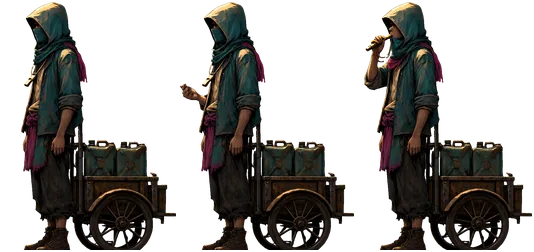
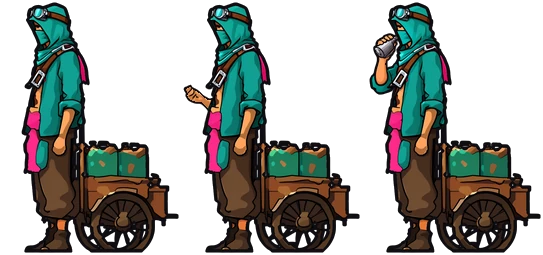
Signal Tower encounters and the Cell guard in the FAL-792 look (FAL-951)
Rollout batch 2 of 5: st-coffee-cart, st-hush-water, st-live-wires,
st-mast-climber, st-numbers-station, st-permit-booth and cell/guard,
every frame. Idles redrawn in the approved ink-and-cel look; talk/bust
redraw only the moving arm on top of the new idle. Frame ids and anims
unchanged; x/w/h/ox/oy re-measured. README updated.

diff --git a/assets/journey/README.md b/assets/journey/README.md
@@ -117,13 +117,13 @@ move. Their dialogue portraits are in `assets/portraits/` (see its README).
 | `cast/noma.webp` + `noma.json` | idle 74×220, talk 74×220 | idle [idle] (1), talk [idle, talk] (4, loop) | feet point | 14,582 |
 | `encounters/cell/backdrop.webp` | opaque 864×256 | static | strip origin (0, 0) | 25,926 |
 | `encounters/cell/bars.webp` + `.json` | shut 864×256, loose 864×256, open 864×256 | shut/loose/open, one frame each (1, once) | feet point | 360,974 |
-| `encounters/cell/guard.webp` + `.json` | idle 106×248, talk 106×248 | idle [idle] (1), talk [idle, talk] (4, loop) | feet point | 15,540 |
-| `encounters/st-coffee-cart.webp` + `.json` | idle 203×248, talk 203×248 | idle [idle] (1), talk [idle, talk] (4, loop) | feet point | 24,468 |
-| `encounters/st-hush-water.webp` + `.json` | idle 174×248, talk 174×248, bust 174×248 | idle [idle] (1), talk [idle, talk] (4, loop), bust [bust] (1, once) | feet point | 30,292 |
-| `encounters/st-live-wires.webp` + `.json` | idle 316×248, talk 316×248, bust 316×248 | idle [idle] (1), talk [idle, talk] (4, loop), bust [bust] (1, once) | feet point | 47,693 |
-| `encounters/st-mast-climber.webp` + `.json` | idle 144×248, talk 144×248 | idle [idle] (1), talk [idle, talk] (4, loop) | feet point | 27,899 |
-| `encounters/st-numbers-station.webp` + `.json` | idle 199×248, talk 199×248 | idle [idle] (1), talk [idle, talk] (4, loop) | feet point | 22,476 |
-| `encounters/st-permit-booth.webp` + `.json` | idle 173×248, talk 173×248, bust 173×248 | idle [idle] (1), talk [idle, talk] (4, loop), bust [bust] (1, once) | feet point | 25,456 |
+| `encounters/cell/guard.webp` + `.json` | idle 110×252, talk 110×252 | idle [idle] (1), talk [idle, talk] (4, loop) | feet point | 13,000 |
+| `encounters/st-coffee-cart.webp` + `.json` | idle 207×254, talk 207×254 | idle [idle] (1), talk [idle, talk] (4, loop) | feet point | 29,186 |
+| `encounters/st-hush-water.webp` + `.json` | idle 177×251, talk 177×251, bust 177×251 | idle [idle] (1), talk [idle, talk] (4, loop), bust [bust] (1, once) | feet point | 31,160 |
+| `encounters/st-live-wires.webp` + `.json` | idle 272×252, talk 272×252, bust 272×252 | idle [idle] (1), talk [idle, talk] (4, loop), bust [bust] (1, once) | feet point | 51,480 |
+| `encounters/st-mast-climber.webp` + `.json` | idle 146×251, talk 146×251 | idle [idle] (1), talk [idle, talk] (4, loop) | feet point | 19,870 |
+| `encounters/st-numbers-station.webp` + `.json` | idle 194×251, talk 194×251 | idle [idle] (1), talk [idle, talk] (4, loop) | feet point | 24,890 |
+| `encounters/st-permit-booth.webp` + `.json` | idle 177×251, talk 177×251, bust 177×251 | idle [idle] (1), talk [idle, talk] (4, loop), bust [bust] (1, once) | feet point | 28,240 |
 | `enemies/d1-scavenger.webp` + `d1-scavenger.json` | idle 143×230, step-a 161×225, step-b 144×229, step-c 155×228, attack 212×229, hurt 126×222, defeated 161×223 | idle [idle] (1), walk [step-a, step-b, step-c, idle] (8), attack [attack] (1, once), hurt [hurt] (1, once), defeated [defeated] (1, once) | feet point | 113,653 |
 | `enemies/d2-raider.webp` + `d2-raider.json` | idle 130×244, step-a 141×241, step-b 131×245, step-c 131×242, attack 276×251, hurt 151×221, defeated 228×182 | idle [idle] (1), walk [step-a, step-b, step-c, idle] (8), attack [attack] (1, once), hurt [hurt] (1, once), defeated [defeated] (1, once) | feet point | 105,533 |
 | `enemies/d3-enforcer.webp` + `d3-enforcer.json` | idle 174×240, step-a 180×238, step-b 174×239, step-c 176×239, attack 178×273, hurt 221×229, s2 174×239, s2-attack 166×223, defeated 198×210 | idle [idle] (1), walk [step-a, step-b, step-c, idle] (8), attack [attack] (1, once), hurt [hurt] (1, once), defeated [defeated] (1, once), s2-idle [s2] (1), s2-attack [s2-attack] (1, once) | feet point | 151,218 |
@@ -191,3 +191,11 @@ batch lands, that sheet is still in the painted style.
 - Batch 1, FAL-827: Bodge, the Bazaar store owner, in `game/assets/bazaar/shopkeeper.png` and
   `shopkeeper-idle.png` (not a journey sheet). The files are the ones Studio Manager accepted on FAL-794, copied
   unchanged: 512×512 RGBA, one alpha island, and the idle frame changes only the loupe eye (1778 px, alpha identical).
+- Batch 2, FAL-951 (restart of FAL-828): the six Signal Tower encounters (`st-coffee-cart`, `st-hush-water`,
+  `st-live-wires`, `st-mast-climber`, `st-numbers-station`, `st-permit-booth`) and the Cell guard
+  (`encounters/cell/guard`), every frame. `cell/backdrop` and `cell/bars` are scenery and keep the painted finish.
+  Each idle is the old idle redrawn in the new look; talk and bust are the new idle with only the moving arm redrawn,
+  so everything outside the arm is the same pixels in every frame of a sheet. Frame ids, anims and the feet-point
+  convention are unchanged; only `x`, `w`, `h`, `ox`, `oy` were re-measured (heights 248 → 251-254 px). Live-wires
+  is 272 px wide instead of 316 because the old painted ground patch is gone; a short inked cable from his boot to
+  the junction box keeps the frame one piece. The coffee seller's apron is one solid brown.
